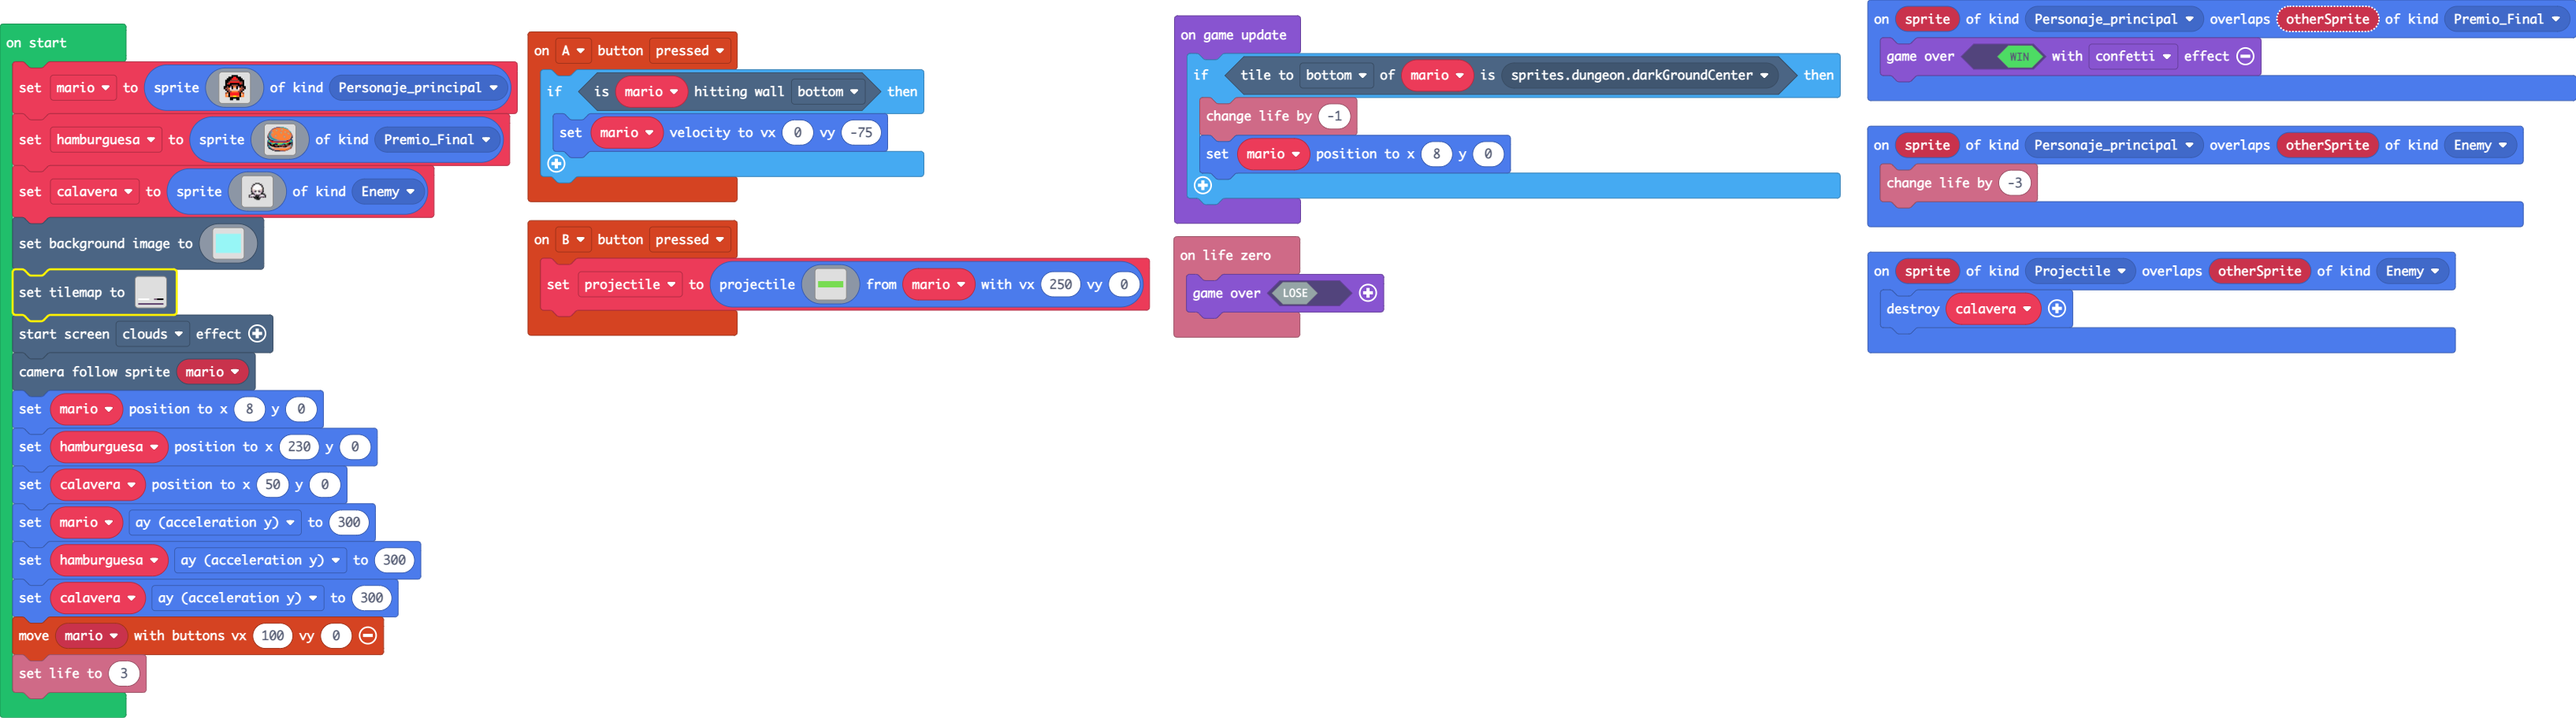
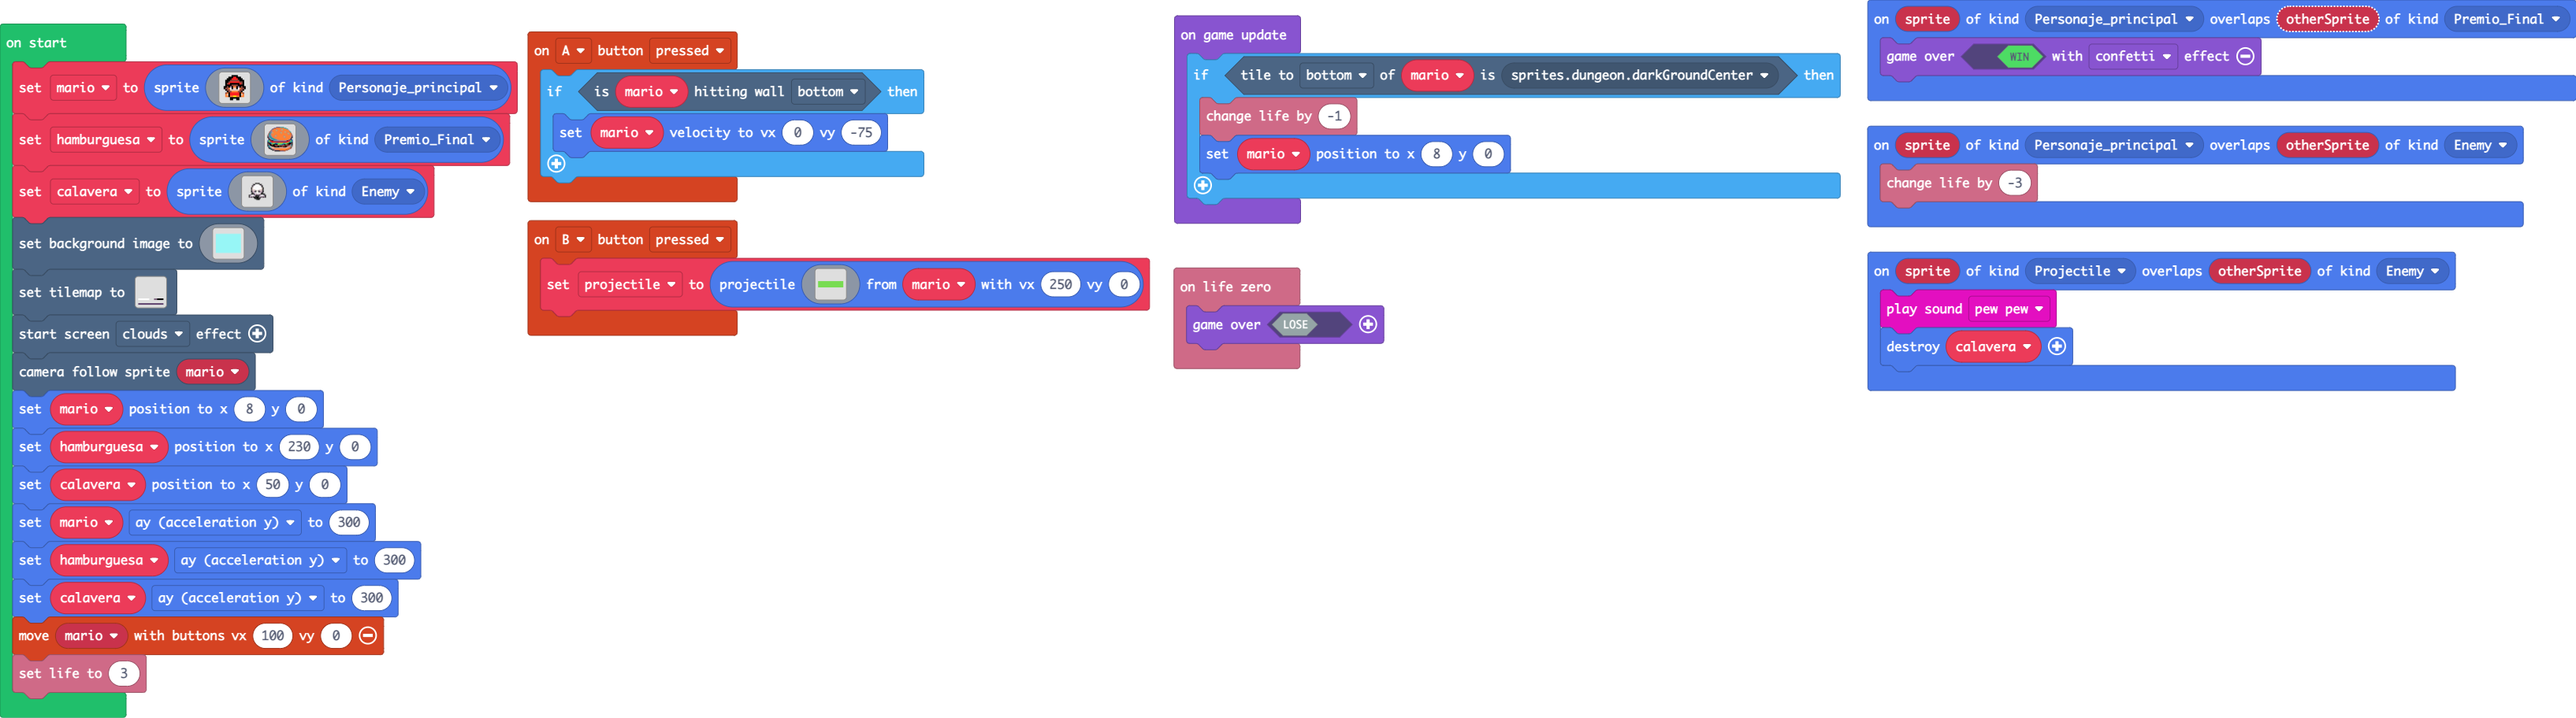
Update main.blocks, main.ts

diff --git a/main.ts b/main.ts
@@ -23,6 +23,7 @@ info.onLifeZero(function () {
     game.over(false)
 })
 sprites.onOverlap(SpriteKind.Projectile, SpriteKind.Enemy, function (sprite, otherSprite) {
+    music.pewPew.play()
     calavera.destroy()
 })
 let projectile: Sprite = null
